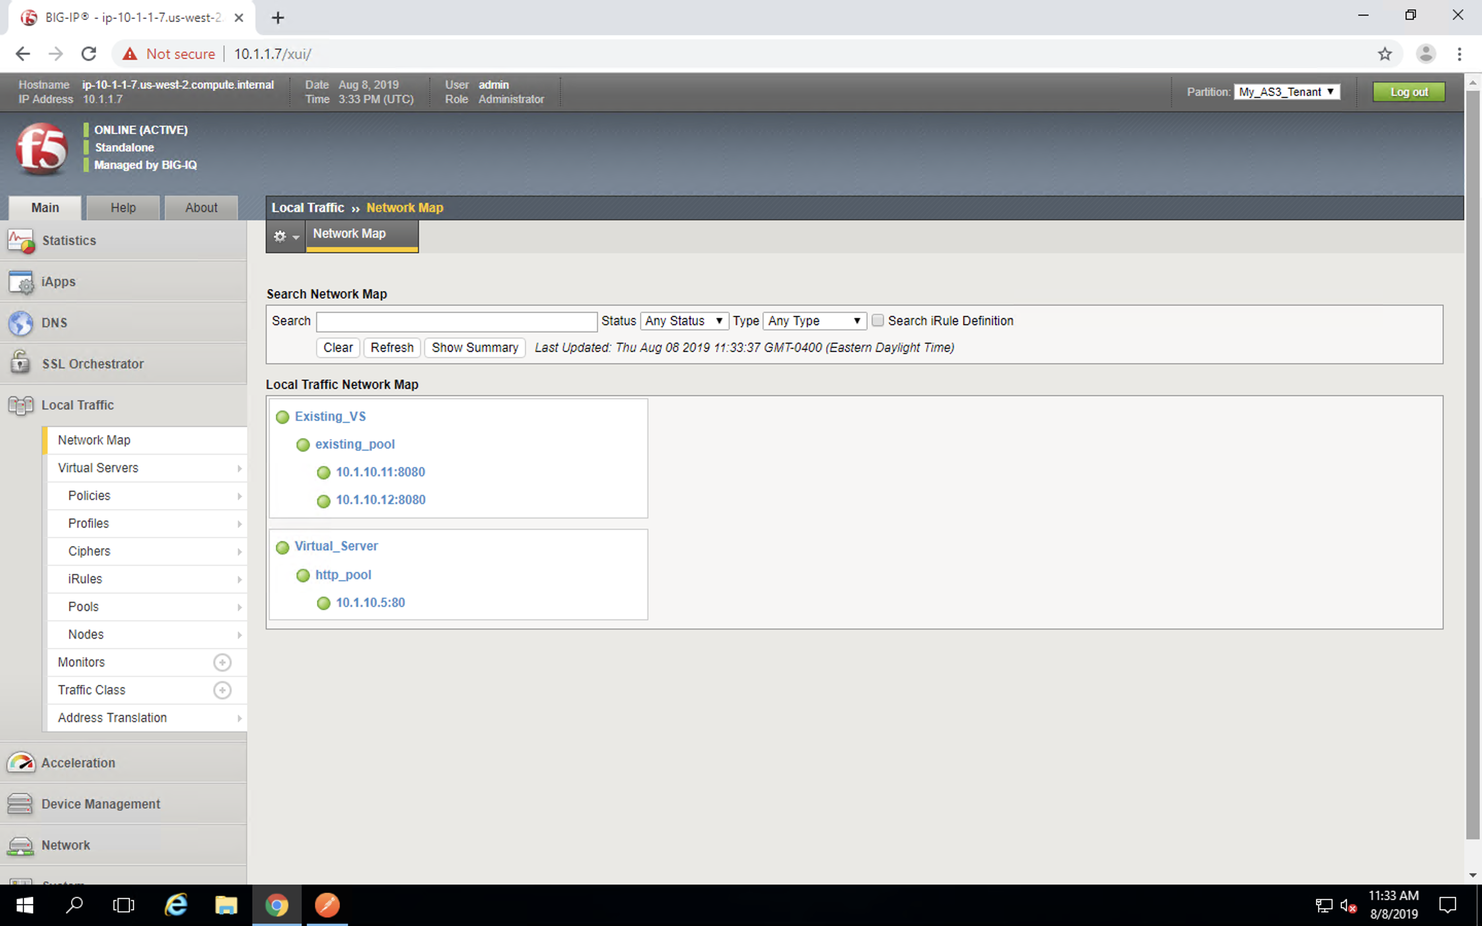
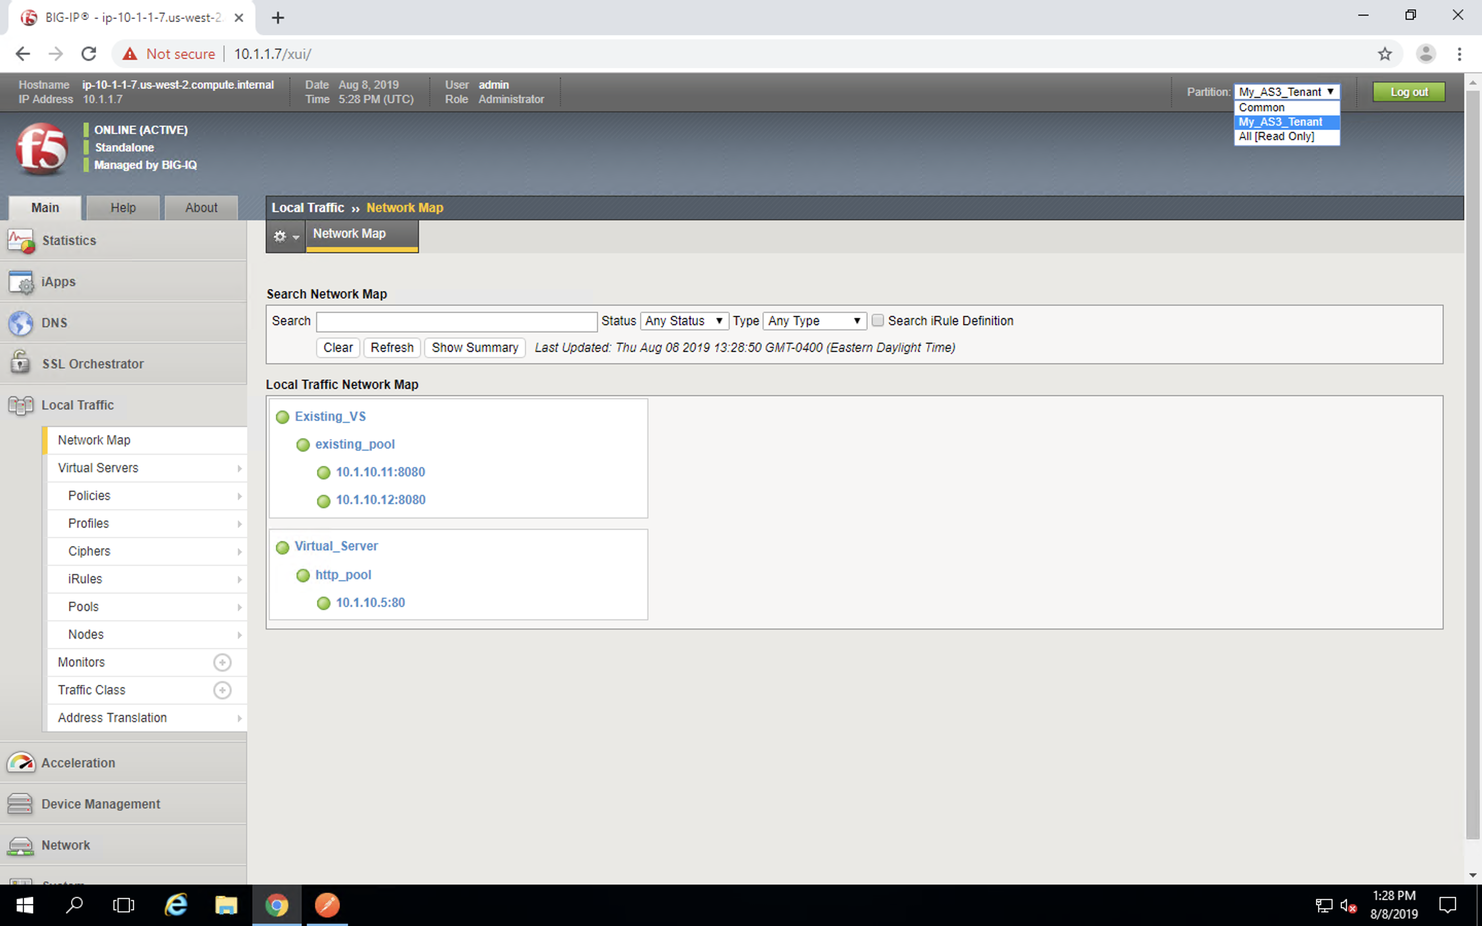
image fix

diff --git a/docs/_build/html/searchindex.js b/docs/_build/html/searchindex.js
@@ -1,1 +1,1 @@
-Search.setIndex({docnames:["class2/class2","class3/class3","class3/module/do","class4/class4","class4/module/lab1","class4/module/module","class4/module2/lab2","class4/module2/module2","class5/class5","class5/module/telemetry","index"],envversion:52,filenames:["class2/class2.rst","class3/class3.rst","class3/module/do.rst","class4/class4.rst","class4/module/lab1.rst","class4/module/module.rst","class4/module2/lab2.rst","class4/module2/module2.rst","class5/class5.rst","class5/module/telemetry.rst","index.rst"],objects:{},objnames:{},objtypes:{},terms:{"class":[2,4,6,9],"default":[2,4,6,9],"goto":[],"import":[],"new":[5,7,9],"true":[2,4],"var":[],"while":8,ASE:[],AWS:[0,8,10],And:[],DNS:[0,1,2,3,4,5,6,7,8,9,10],For:[6,8,9],IPs:2,One:[],That:[],The:[0,1,2,3,4,5,6,7,8,9,10],These:[],Use:2,Using:[3,10],_build:[],_static:[],_templat:[],abov:6,accept:[],access:[0,1,2,3,4,5,6,7,8,9,10],account:8,achiev:[],action:[4,6,9],activ:[],adc:[4,6],add:[2,5,7,9],added:[],address:[0,2,9],admin123:0,admin:[0,2,4,6,9],administr:[0,9],adminstr:[2,4],admonit:[],advanc:[0,1,2,3,4,5,6,7,8,9,10],afm:[],after:6,again:[],agil:[],agnost:3,all:[0,2,4,9],allowservic:2,along:9,alpha:[],alreadi:[2,4],alredi:9,also:9,amazon:[],amazoncloudwatch:[],amount:8,ani:9,anoth:3,ao_log_group:[],ao_log_stream:[],api:[0,1,2,3,4,5,6,7,8,9,10],apirefer:6,apm:[],app:[0,1,3,5,6,7,8,9,10],applianc:[],applic:[0,1,2,4,5,6,7,8,9,10],application_1:[],appropri:[],approv:0,appsvc:[4,6],as3:[0,4,10],asm:[],aspect:10,assign:[],assum:[1,3,8],assumpt:[1,3,8],async:2,attach:9,attent:[],auth:[2,4,6,9],authent:6,author:[2,4,6,9],autom:[0,1,2,3,4,5,6,7,8,9,10],avail:9,averag:8,avg:[],awesom:[],aws:8,aws_cloudwatch:9,back:[2,9],bad:[],ball:[],bar:[2,4,6,9],bare:[],basic:[2,4,6,9],bat:[],becaus:9,been:[0,9],befor:[],begin:9,being:9,below:[2,6,9],big:[0,1,3,5,8,10],bigip:4,bigiq_app_ten:6,bigiq_app_test:6,bigiq_public_api_ref:6,bigiqapp:6,bigiqv:6,bip:[],biq:[],blank:[],blob:[],block:[],blue:9,blueprint:[2,4,9],board:[],bodi:[2,4,6,9],bold:[],bookmark:9,border:[],both:6,bottom:[2,4,9],box:[4,6],bravo:[],browser:[0,1,4,6,8,9],bug:[0,1,2,3,4,5,6,7,8,9,10],build:[],busi:8,button:[2,4,6,9],call:[0,4,6],callout:[],can:[0,1,2,3,4,5,6,7,8,9,10],care:[],carefulli:[],caution:[],cell:[],cert:[],certif:[2,4,9],chang:[],charli:[],check:[2,4,6,9],choos:[],chrome:[0,2,4,6,9],ciphertext:9,class1:[],class2:[],class3:[],class4:[],class5:[],class7:[1,3,8],classbold:[],classital:[],classnam:[],clear:[4,6],click:[1,2,4,6,8,9],close:9,cloud:8,clouddoc:[1,2,3,6,8],cloudwatch:[8,10],code:[],collect:[5,7,8,9],com:[0,1,2,3,4,5,6,7,8,9,10],combin:9,command:[],common:[2,4,9],commun:[1,3,8],complet:[1,3,8],complianc:9,compon:[0,2,4,9],comput:[2,6],conf:[],config:[],configur:[1,3,5,6,8,10],connect:8,consol:9,consum:8,contain:[0,1,2,3,4,5,6,7,8,9,10],content:[0,1,2,3,4,5,6,7,8,9,10],control:[0,1,2,3,4,5,6,7,8,9,10],conveni:[],copi:9,could:8,cover:[],creat:[5,7,9],credenti:[0,2,4,9],crowbar:[],current:9,custom:[],custom_filtter_1:[],custom_metric_1:[],cut:[],cutter:[],dai:[8,9],danger:[],dash:[],dashboard:9,data:8,datacent:[],dcd:0,declar:[0,5,7,9,10],delet:[4,6],deliveri:[0,1,2,3,4,5,6,7,8,9,10],demo:[1,2,3,4,8,9],deploi:[5,6,8,10],deploy:[2,4,9],descript:[],detail:[2,4,9],dev:1,devic:2,devop:[0,1,2,3,4,5,6,7,8,9,10],differ:[],disabl:6,dismiss:9,dist:[],dns:[],doc:[],document:8,don:2,done:[],dot:[2,4,6,9],down:[],download:9,dropdown:[2,4,6,8,9],drwxr:[],durat:9,edit:[0,1,2,3,4,5,6,7,8,9,10],electr:[],element:[],email:1,emphasi:[],empti:[],enabl:[],end:[2,4,6,9],enforc:[0,1,2,3,4,5,6,7,8,9,10],enhanc:[0,1,2,3,4,5,6,7,8,9,10],enter:[2,4,6,8,9],entri:9,environ:10,equival:[],error:[],eval:[],examin:[],exampl:[],exclus:0,existing_pool:9,existing_v:9,exit:[2,4,9],expand:[2,4,6,9],expect:[1,3,8],expir:6,expos:9,extend:8,extens:[2,10],extern:[0,2],external_default_gatewai:2,extrem:[],f5devcentr:[0,1,2,3,4,5,6,7,8,9,10],f5i:[],f5network:6,facilit:[1,3,8],fals:2,familiar:10,feder:[1,8,9],few:0,figur:[],file:[2,4,9],filter:[],find:9,firefox:[],firewal:[0,1,2,3,4,5,6,7,8,9,10],first:[],flow:[],focu:[],folder:[],follow:[0,1,2,3,4,6,8,9],font:[],fontawesom:[],fonticon:[],format:[],found:9,four:[],from:[0,1,2,3,4,5,6,7,8,9,10],full:[0,1,2,3,4,5,6,7,8,9,10],futur:9,gear:[],gener:[1,2,4,6,8,10],get:[1,3,4,7,8,9,10],github:[0,1,2,3,4,5,6,7,8,9,10],give:9,global:[0,1,2,3,4,5,6,7,8,9,10],gmsmr:2,goal:[1,3,8],goodbaklava123:[0,2],googl:0,govern:9,grai:[],grap:[],graph:[],great:[],green:[2,4,9],grei:[2,4,9],grid:[],group:[2,8,10],gtm:[],gui:[],guid:[1,3,8],guidelin:[],hammer:[],handi:1,hardwar:[],has:[2,4,6],have:[0,2,4,9],header:[],heavi:[],help:10,here:[0,1,2,3,4,5,6,7,8,9,10],highlight:9,hint:[],home:[],host:8,hostnam:[2,6],hour:[1,3,8],how:[1,3,5,7,8],howev:[],html:[1,2,3,6,8],http:[0,1,2,3,4,5,6,7,8,9,10],http_basic:[4,6],http_default:[4,6],http_index:[4,6],http_pool:4,http_profil:[],hyperlink:[],hypervisor:[],iam:[8,10],iapp:[],icon:[],icontrol:[0,1,2,3,4,5,6,7,8,9,10],ident:9,ieldt:2,ignor:[],imag:[],image001:[],inc:[0,1,2,3,4,5,6,7,8,9,10],includ:0,index:6,info:[2,9],inform:[6,8],insert:6,insight:9,inspect:9,instal:[0,2],instruct:[],instructor:[],integr:[1,3,8],intellig:[0,1,2,3,4,5,6,7,8,9,10],interact:0,interfac:2,intern:[0,2,6],interv:[6,9],intro:[],ipi:[],isn:2,issu:[0,1,2,3,4,5,6,7,8,9,10],ital:[],item:[],its:9,iwf:[],iworkflow:[0,1,2,3,4,5,6,7,8,9,10],json:[2,4,6,9],jsp:[],jump:[],jumphost:0,jumppost:0,jun:[],justif:8,keep:1,kei:[0,1,2,8,9],knife:[],knive:[],know:[1,3,8],kqokz:2,lab1:[1,3,8],lab2:[],lab:[1,2,3,4,6,8,9],label:6,lamp:[],languag:[],latest:2,learn:[5,7],left:[2,4,9],let:9,leverag:[0,1,2,3,4,5,6,7,8,9,10],lic:[],licens:[1,2],licensetyp:2,lick:[],lift:[],light:[],like:[],line:2,link:[],linux:0,list:[2,9],local:[0,1,2,3,4,5,6,7,8,9,10],locat:[],log:[2,7,8,10],loggroup:9,login:[5,6,9],logstream:9,look:[],ltm:2,lwbzexewl9at:[2,4],machin:0,made:[0,1,2,3,4,5,6,7,8,9,10],mai:[],main:0,make:0,makefil:[],manag:[0,1,2,3,4,5,6,7,8,9,10],mani:8,manual:2,map:9,mark:[],markdown:[],markup:[],mart:[],master:[],math:[],member:[4,6],menu:[2,4,6,9],method:[2,4,6,8,9],metric:[],mgmt:[2,4,6,9],minut:6,modifi:[],modul:[5,7,9],module1:[1,3,8],module2:[],monitor:[4,6],monitortyp:6,more:6,mtu:2,muczt:2,must:6,my_as3_app:4,my_as3_ten:4,my_consum:9,my_listen:9,my_log_group:9,my_system:9,my_us:9,mydn:2,mylicens:2,myntp:2,myprovis:2,name:[2,4,6,9],nameserv:2,navig:[1,2,4,8,9],need:[],nest:[],net:6,network:[0,1,2,3,4,5,6,7,8,9,10],new_partit:[4,6],newli:[2,4,6,9],next:[1,2,4,6,9],noarch:[],nomin:2,none:2,note:9,novfibg:2,now:[2,4,6,8],ntp:2,number:[],off:[2,4,9],onboard:[0,10],onc:[0,9],one:[2,3,4,9],onli:2,onto:[],open:[0,1,2,3,4,5,6,7,8,9,10],option:[],orchestr:[0,1,2,3,4,5,6,7,8,9,10],order:[],org:2,origin:[],other:[],our:[4,6],out:0,outsid:0,overwrit:2,packag:9,page:[2,4,9],pane:[],partit:[4,6,9],passphras:9,password:[2,4,6,9],past:[2,4,6,9],patch:2,perform:[0,6],permiss:9,persist:4,phase:[],phillip:[],photo:[],pipelin:[0,1,2,3,4,5,6,7,8,9,10],place:[],plane:[],platform:8,pleas:[],png:[],point:0,polici:[0,1,2,3,4,5,6,7,8,9,10],pool:[0,2,4,6,9],pool_with_vip:6,pop:[2,4,6,9],port:9,post:[2,4,6,9],postman:[0,1,3,5,7,8,10],power:[],pre:[],preconfigur:9,prefer:0,prerequisit:[1,8],present:[2,4,9],previou:[4,6],print:[],produc:9,product:[2,6],profilehttp:4,programm:[],programmat:9,provid:10,provis:2,purpos:10,push:[],putti:[],queri:9,quickli:10,qweasdzxc123:[],r_auth_login:6,rackmount:[],radial:[2,4,6,9],rail:[],rather:[],raw:[2,4,6,9],rdp:[2,4,9],receiv:6,red:[],refer:[],refresh:6,refreshtoken:6,reg:[],region:9,registeremail:[],regkei:2,relev:8,reload:9,remark:6,remov:[],replac:[],repo:[],repositori:[0,1,2,3,4,5,6,7,8,9,10],request:[0,1,2,3,5,7,8,9,10],requir:0,resourc:[],respons:6,rest:[0,1,2,3,4,5,6,7,8,9,10],restructuredtext:[],result:9,review:9,revok:2,right:9,root:[],rout:2,row:[],rpm:[2,9],rst:[],run:9,safeti:[],sale:[],same:6,sampl:[],save:[2,4,6,9],schemavers:[2,4,6],scope:[],screen:[2,4,9],screenshot:[],screwdriv:[],scroll:[],search:[2,4,8,9],second:[],secret:[8,9],section:[1,3,4,6,8,9],secur:[0,1,2,3,4,5,6,7,8,9,10],see:[2,9],select:[2,4,6,8,9],self:2,selfip:2,send:[1,5,7],server:[0,2,9],serveraddress:[4,6],servic:[4,6,8,9,10],service_gener:[4,6],servicenow:[],serviceport:[4,6],session:9,set:[1,2,4,9],setup:[0,8,10],share:[2,4,6,9],sharp:[],shell:[],should:[2,4,6],show:[],shown:[],sign:[2,4,9],simpl:[],simplifi:3,sinc:[],site:[],skip:[2,4,9],soap:[0,1,2,3,4,5,6,7,8,9,10],softwar:[],some:10,sourc:[0,1,2,3,4,5,6,7,8,9,10],span:[],sphinx:[],spin:[],ssl:[2,4,9],stabl:[],staff:[],stand:[],start:[1,3,4,7,8,10],statu:2,step:[4,6],sticki:9,straight:[2,4,9],stream:[0,9,10],submit:8,substitut:[],success:[],sum:[],support:[],sure:[],surfac:[],syntax:[],sys:[],system:[0,2,4,9],systempol:9,tab:[2,4,6,9],tabl:[],tag:[2,9],take:[2,4,8,9],target:6,task:[],teach:[],technolog:8,telemetri:[0,9,10],telemetry_consum:9,telemetry_listen:9,telemetry_system:9,templat:[4,6],tenant:[2,4,6],test:[0,6],test_log_group:9,test_log_stream:9,test_us:[],text:[2,4,6,9],than:[],them:9,theme:[],themselv:[],thi:[0,1,2,3,4,5,6,7,8,9,10],thing:[0,2],three:[2,4,6,9],through:0,ticket:8,tile:[1,2,4,8,9],time:[1,3,4,6,8,9],timeout:6,timezon:2,tip:[],tmo:[],tmsh:[],todo:[],todo_emit_warn:[],todo_include_todo:[],todolist:[],togeth:[],toggl:[2,4,9],token:6,tool:1,toolchain:[2,4,9,10],top:9,topic:[],topolog:10,total:[],touch:[],trace:4,traffic:[0,1,2,3,4,5,6,7,8,10],trafficgroup:2,train:[1,3,8],tree:[],turn:[],tutori:[1,3,8],two:[],type:[2,4,6,9],udf:[5,8,10],under:[2,4,6,9],unord:[],until:[2,4,6,9],upgrad:3,upload:9,uri:2,url:[2,4,6,9],use:[1,3,4,5,6,7,8],used:[],user:[8,10],usernam:[2,4,6,9],uses:8,using:[0,1,2,3,4,5,6,7,8,9,10],utc:2,util:2,v12:[],v13:0,v14:0,v16:[],valu:[],verif:[2,4,9],verifi:4,verison:[],version:3,via:[],view:[8,10],virtual:[0,1,2,3,4,5,6,7,8,9,10],virtual_serv:4,virtualaddress:[4,6],virtualport:[4,6],vlan:[0,2],waf:[1,3,8],wai:0,wait:[2,4,9],want:8,warn:[],web:[],webserv:[],websit:[],welcom:10,west:[2,6],when:1,whenev:6,which:[0,2,4,6,9],win2016:[2,4,9],window:[0,2,4,6,9],within:[0,1,2,3,4,5,6,7,8,9,10],work:0,workd:[],would:[],www:[],xubuntu:[],year:[],yes:[],ylwbzexewl9at:0,you:[0,1,2,3,4,5,6,7,8,9,10],your:[0,1,2,8,9],zero:[]},titles:["1. Environments &amp; Lab Topology","2. Declarative Onboarding","2.1. Declarative Onboarding \u2013 Getting Started","3. Application Services 3 Extension (AS3)","3.1.1. Deploy UDF","3.1. AS3 \u2013 Getting Started","3.2.1. Using AS3 with BIG-IQ \u2013 Getting Started","3.2. Using AS3 with Big-IQ","4. Telemetry Streaming","4.1. Setup AWS CloudWatch IAM User","F5 Agility Labs - Index"],titleterms:{"class":[],"import":[],"new":[4,6],AWS:9,One:[],Using:[6,7],With:[],accept:[],add:[4,6],admonit:[],agil:10,also:[],app:[2,4],applianc:[],applic:3,as3:[3,5,6,7],attent:[],autom:[],awesom:[],big:[2,4,6,7,9],browser:[],caution:[],chang:2,clear:[],cloudwatch:9,code:[],collect:[2,4,6],column:[],common:[],compon:[],configur:[2,4,9],connect:[],cord:[],creat:[2,4,6],custom:[],danger:[],datacent:[],declar:[1,2,4,6],deploi:[2,4,9],download:[],edit:[],emphasi:[],enabl:[],environ:0,error:[],exampl:[],extens:3,extern:[],file:[],font:[],format:[],four:[],gener:9,get:[2,5,6],giant:[],grid:[],group:9,hint:[],hyperlink:[],hypervisor:[],iam:9,icon:[],icontrol:[],imag:[],index:10,instal:[],instanc:[],intern:[],lab:[0,10],let:[],list:[],log:[6,9],login:[2,4],map:[],markdown:[],markup:[],metric:[],modul:[],nest:[],network:[],note:[],onboard:[1,2],open:[],option:[],orchestr:[],order:[],partit:[],phase:[],postman:[2,4,6,9],power:[],pre:[],prerequisit:[],rack:[],rdp:[],request:[4,6],requir:[],rpm:[],sampl:[],send:[2,4,6],servic:3,setup:9,show:[],simpl:[],start:[2,5,6,9],stream:8,stub:[],substitut:[],support:[],tabl:[],task:[],telemetri:8,text:[],three:[],tip:[],tmsh:[],todo:[],togeth:[],topolog:0,traffic:9,turn:[],two:[],udf:[2,4,9],unord:[],unpack:[],upload:[],user:9,verifi:2,view:9,virtual:[],warn:[],web:[],welcom:[],without:[],your:[]}})
+Search.setIndex({docnames:["class2/class2","class3/class3","class3/module/do","class4/class4","class4/module/lab1","class4/module/module","class4/module2/lab2","class4/module2/module2","class5/class5","class5/module/telemetry","index"],envversion:52,filenames:["class2/class2.rst","class3/class3.rst","class3/module/do.rst","class4/class4.rst","class4/module/lab1.rst","class4/module/module.rst","class4/module2/lab2.rst","class4/module2/module2.rst","class5/class5.rst","class5/module/telemetry.rst","index.rst"],objects:{},objnames:{},objtypes:{},terms:{"class":[2,4,6,9],"default":[2,4,6,9],"goto":[],"import":[],"new":[5,7,9],"true":[2,4],"var":[],"while":8,ASE:[],AWS:[0,8,10],And:[],DNS:[0,1,2,3,4,5,6,7,8,9,10],For:[6,8,9],IPs:2,One:[],That:[],The:[0,1,2,3,4,5,6,7,8,9,10],These:[],Use:2,Using:[3,10],_build:[],_static:[],_templat:[],abov:6,accept:[],access:[0,1,2,3,4,5,6,7,8,9,10],account:8,achiev:[],action:[4,6,9],activ:[],adc:[4,6],add:[2,5,7,9],added:[],address:[0,2,9],admin123:0,admin:[0,2,4,6,9],administr:[0,9],adminstr:[2,4],admonit:[],advanc:[0,1,2,3,4,5,6,7,8,9,10],afm:[],after:6,again:[],agil:[],agnost:3,all:[0,2,4,9],allowservic:2,along:9,alpha:[],alreadi:[2,4],alredi:9,also:[4,6,9],amazon:[],amazoncloudwatch:[],amount:8,ani:9,anoth:3,ao_log_group:[],ao_log_stream:[],api:[0,1,2,3,4,5,6,7,8,9,10],apirefer:6,apm:[],app:[0,1,3,5,6,7,8,9,10],applianc:[],applic:[0,1,2,4,5,6,7,8,9,10],application_1:[],appropri:[],approv:0,appsvc:[4,6],as3:[0,4,10],asm:[],aspect:10,assign:[],assum:[1,3,8],assumpt:[1,3,8],async:2,attach:9,attent:[],auth:[2,4,6,9],authent:6,author:[2,4,6,9],autom:[0,1,2,3,4,5,6,7,8,9,10],avail:9,averag:8,avg:[],awesom:[],aws:8,aws_cloudwatch:9,back:[2,9],bad:[],ball:[],bar:[2,4,6,9],bare:[],basic:[2,4,6,9],bat:[],becaus:9,been:[0,9],befor:[],begin:9,being:9,below:[2,6,9],big:[0,1,3,5,8,10],bigip:4,bigiq_app_ten:6,bigiq_app_test:6,bigiq_public_api_ref:6,bigiqapp:6,bigiqv:6,bip:[],biq:[],blank:[],blob:[],block:[],blue:9,blueprint:[2,4,9],board:[],bodi:[2,4,6,9],bold:[],bookmark:9,border:[],both:6,bottom:[2,4,9],box:[4,6],bravo:[],browser:[0,1,4,6,8,9],bug:[0,1,2,3,4,5,6,7,8,9,10],build:[],busi:8,button:[2,4,6,9],call:[0,4,6],callout:[],can:[0,1,2,3,4,5,6,7,8,9,10],care:[],carefulli:[],caution:[],cell:[],cert:[],certif:[2,4,9],chang:[],charli:[],check:[2,4,6,9],choos:[],chrome:[0,2,4,6,9],ciphertext:9,class1:[],class2:[],class3:[],class4:[],class5:[],class7:[1,3,8],classbold:[],classital:[],classnam:[],clear:[4,6],click:[1,2,4,6,8,9],close:9,cloud:8,clouddoc:[1,2,3,6,8],cloudwatch:[8,10],code:[],collect:[5,7,8,9],com:[0,1,2,3,4,5,6,7,8,9,10],combin:9,command:[],common:[2,4,9],commun:[1,3,8],complet:[1,3,8],complianc:9,compon:[0,2,4,9],comput:[2,6],conf:[],config:[],configur:[1,3,5,6,8,10],connect:8,consol:9,consum:8,contain:[0,1,2,3,4,5,6,7,8,9,10],content:[0,1,2,3,4,5,6,7,8,9,10],control:[0,1,2,3,4,5,6,7,8,9,10],conveni:[],copi:9,correct:[4,6],could:8,cover:[],creat:[5,7,9],credenti:[0,2,4,9],crowbar:[],current:9,custom:[],custom_filtter_1:[],custom_metric_1:[],cut:[],cutter:[],dai:[8,9],danger:[],dash:[],dashboard:9,data:8,datacent:[],dcd:0,declar:[0,5,7,9,10],delet:[4,6],deliveri:[0,1,2,3,4,5,6,7,8,9,10],demo:[1,2,3,4,8,9],deploi:[5,6,8,10],deploy:[2,4,9],descript:[],detail:[2,4,9],dev:1,devic:2,devop:[0,1,2,3,4,5,6,7,8,9,10],differ:[],disabl:6,dismiss:9,dist:[],dns:[],doc:[],document:8,don:2,done:[],dot:[2,4,6,9],down:[],download:9,dropdown:[2,4,6,8,9],drwxr:[],durat:9,edit:[0,1,2,3,4,5,6,7,8,9,10],electr:[],element:[],email:1,emphasi:[],empti:[],enabl:[],end:[2,4,6,9],enforc:[0,1,2,3,4,5,6,7,8,9,10],enhanc:[0,1,2,3,4,5,6,7,8,9,10],enter:[2,4,6,8,9],entri:9,environ:10,equival:[],error:[],eval:[],examin:[],exampl:[],exclus:0,existing_pool:9,existing_v:9,exit:[2,4,9],expand:[2,4,6,9],expect:[1,3,8],expir:6,expos:9,extend:8,extens:[2,10],extern:[0,2],external_default_gatewai:2,extrem:[],f5devcentr:[0,1,2,3,4,5,6,7,8,9,10],f5i:[],f5network:6,facilit:[1,3,8],fals:2,familiar:10,feder:[1,8,9],few:0,figur:[],file:[2,4,9],filter:[],find:9,firefox:[],firewal:[0,1,2,3,4,5,6,7,8,9,10],first:[],flow:[],focu:[],folder:[],follow:[0,1,2,3,4,6,8,9],font:[],fontawesom:[],fonticon:[],format:[],found:9,four:[],from:[0,1,2,3,4,5,6,7,8,9,10],full:[0,1,2,3,4,5,6,7,8,9,10],futur:9,gear:[],gener:[1,2,4,6,8,10],get:[1,3,4,7,8,9,10],github:[0,1,2,3,4,5,6,7,8,9,10],give:9,global:[0,1,2,3,4,5,6,7,8,9,10],gmsmr:2,goal:[1,3,8],goodbaklava123:[0,2],googl:0,govern:9,grai:[],grap:[],graph:[],great:[],green:[2,4,9],grei:[2,4,9],grid:[],group:[2,8,10],gtm:[],gui:[],guid:[1,3,8],guidelin:[],hammer:[],handi:1,hardwar:[],has:[2,4,6],have:[0,2,4,9],header:[],heavi:[],help:10,here:[0,1,2,3,4,5,6,7,8,9,10],highlight:9,hint:[],home:[],host:8,hostnam:[2,6],hour:[1,3,8],how:[1,3,5,7,8],howev:[],html:[1,2,3,6,8],http:[0,1,2,3,4,5,6,7,8,9,10],http_basic:[4,6],http_default:[4,6],http_index:[4,6],http_pool:4,http_profil:[],hyperlink:[],hypervisor:[],iam:[8,10],iapp:[],icon:[],icontrol:[0,1,2,3,4,5,6,7,8,9,10],ident:9,ieldt:2,ignor:[],imag:[],image001:[],inc:[0,1,2,3,4,5,6,7,8,9,10],includ:0,index:6,info:[2,9],inform:[6,8],insert:6,insight:9,inspect:9,instal:[0,2],instruct:[],instructor:[],integr:[1,3,8],intellig:[0,1,2,3,4,5,6,7,8,9,10],interact:0,interfac:2,intern:[0,2,6],interv:[6,9],intro:[],ipi:[],isn:2,issu:[0,1,2,3,4,5,6,7,8,9,10],ital:[],item:[],its:9,iwf:[],iworkflow:[0,1,2,3,4,5,6,7,8,9,10],json:[2,4,6,9],jsp:[],jump:[],jumphost:0,jumppost:0,jun:[],justif:8,keep:1,kei:[0,1,2,8,9],knife:[],knive:[],know:[1,3,8],kqokz:2,lab1:[1,3,8],lab2:[],lab:[1,2,3,4,6,8,9],label:6,lamp:[],languag:[],latest:2,learn:[5,7],left:[2,4,9],let:9,leverag:[0,1,2,3,4,5,6,7,8,9,10],lic:[],licens:[1,2],licensetyp:2,lick:[],lift:[],light:[],like:[],line:2,link:[],linux:0,list:[2,9],local:[0,1,2,3,4,5,6,7,8,9,10],locat:[],log:[2,7,8,10],loggroup:9,login:[5,6,9],logstream:9,look:[],ltm:2,lwbzexewl9at:[2,4],machin:0,made:[0,1,2,3,4,5,6,7,8,9,10],mai:[],main:0,make:[0,4,6],makefil:[],manag:[0,1,2,3,4,5,6,7,8,9,10],mani:8,manual:2,map:9,mark:[],markdown:[],markup:[],mart:[],master:[],math:[],member:[4,6],menu:[2,4,6,9],method:[2,4,6,8,9],metric:[],mgmt:[2,4,6,9],minut:6,modifi:[],modul:[5,7,9],module1:[1,3,8],module2:[],monitor:[4,6],monitortyp:6,more:6,mtu:2,muczt:2,must:6,my_as3_app:4,my_as3_ten:4,my_consum:9,my_listen:9,my_log_group:9,my_system:9,my_us:9,mydn:2,mylicens:2,myntp:2,myprovis:2,name:[2,4,6,9],nameserv:2,navig:[1,2,4,8,9],need:[],nest:[],net:6,network:[0,1,2,3,4,5,6,7,8,9,10],new_partit:[4,6],newli:[2,4,6,9],next:[1,2,4,6,9],noarch:[],nomin:2,none:2,note:9,novfibg:2,now:[2,4,6,8],ntp:2,number:[],off:[2,4,9],onboard:[0,10],onc:[0,9],one:[2,3,4,9],onli:2,onto:[],open:[0,1,2,3,4,5,6,7,8,9,10],option:[],orchestr:[0,1,2,3,4,5,6,7,8,9,10],order:[],org:2,origin:[],other:[],our:[4,6],out:0,outsid:0,overwrit:2,packag:9,page:[2,4,9],pane:[],partit:[4,6,9],passphras:9,password:[2,4,6,9],past:[2,4,6,9],patch:2,perform:[0,6],permiss:9,persist:4,phase:[],phillip:[],photo:[],pipelin:[0,1,2,3,4,5,6,7,8,9,10],place:[],plane:[],platform:8,pleas:[],png:[],point:0,polici:[0,1,2,3,4,5,6,7,8,9,10],pool:[0,2,4,6,9],pool_with_vip:6,pop:[2,4,6,9],port:9,post:[2,4,6,9],postman:[0,1,3,5,7,8,10],power:[],pre:[],preconfigur:9,prefer:0,prerequisit:[1,8],present:[2,4,9],previou:[4,6],print:[],produc:9,product:[2,6],profilehttp:4,programm:[],programmat:9,provid:10,provis:2,purpos:10,push:[],putti:[],queri:9,quickli:10,qweasdzxc123:[],r_auth_login:6,rackmount:[],radial:[2,4,6,9],rail:[],rather:[],raw:[2,4,6,9],rdp:[2,4,9],receiv:6,red:[],refer:[],refresh:6,refreshtoken:6,reg:[],region:9,registeremail:[],regkei:2,relev:8,reload:9,remark:6,remov:[],replac:[],repo:[],repositori:[0,1,2,3,4,5,6,7,8,9,10],request:[0,1,2,3,5,7,8,9,10],requir:0,resourc:[],respons:6,rest:[0,1,2,3,4,5,6,7,8,9,10],restructuredtext:[],result:9,review:9,revok:2,right:9,root:[],rout:2,row:[],rpm:[2,9],rst:[],run:9,safeti:[],sale:[],same:6,sampl:[],save:[2,4,6,9],schemavers:[2,4,6],scope:[],screen:[2,4,9],screenshot:[],screwdriv:[],scroll:[],search:[2,4,8,9],second:[],secret:[8,9],section:[1,3,4,6,8,9],secur:[0,1,2,3,4,5,6,7,8,9,10],see:[2,9],select:[2,4,6,8,9],self:2,selfip:2,send:[1,5,7],server:[0,2,9],serveraddress:[4,6],servic:[4,6,8,9,10],service_gener:[4,6],servicenow:[],serviceport:[4,6],session:9,set:[1,2,4,9],setup:[0,8,10],share:[2,4,6,9],sharp:[],shell:[],should:[2,4,6],show:[],shown:[],sign:[2,4,9],simpl:[],simplifi:3,sinc:[],site:[],skip:[2,4,9],soap:[0,1,2,3,4,5,6,7,8,9,10],softwar:[],some:10,sourc:[0,1,2,3,4,5,6,7,8,9,10],span:[],sphinx:[],spin:[],ssl:[2,4,9],stabl:[],staff:[],stand:[],start:[1,3,4,7,8,10],statu:2,step:[4,6],sticki:9,straight:[2,4,9],stream:[0,9,10],submit:8,substitut:[],success:[],sum:[],support:[],sure:[4,6],surfac:[],syntax:[],sys:[],system:[0,2,4,9],systempol:9,tab:[2,4,6,9],tabl:[],tag:[2,9],take:[2,4,8,9],target:6,task:[],teach:[],technolog:8,telemetri:[0,9,10],telemetry_consum:9,telemetry_listen:9,telemetry_system:9,templat:[4,6],tenant:[2,4,6],test:[0,6],test_log_group:9,test_log_stream:9,test_us:[],text:[2,4,6,9],than:[],them:9,theme:[],themselv:[],thi:[0,1,2,3,4,5,6,7,8,9,10],thing:[0,2],three:[2,4,6,9],through:0,ticket:8,tile:[1,2,4,8,9],time:[1,3,4,6,8,9],timeout:6,timezon:2,tip:[],tmo:[],tmsh:[],todo:[],todo_emit_warn:[],todo_include_todo:[],todolist:[],togeth:[],toggl:[2,4,9],token:6,tool:1,toolchain:[2,4,9,10],top:9,topic:[],topolog:10,total:[],touch:[],trace:4,traffic:[0,1,2,3,4,5,6,7,8,10],trafficgroup:2,train:[1,3,8],tree:[],turn:[],tutori:[1,3,8],two:[],type:[2,4,6,9],udf:[5,8,10],under:[2,4,6,9],unord:[],until:[2,4,6,9],upgrad:3,upload:9,uri:2,url:[2,4,6,9],use:[1,3,4,5,6,7,8],used:[],user:[8,10],usernam:[2,4,6,9],uses:8,using:[0,1,2,3,4,5,6,7,8,9,10],utc:2,util:2,v12:[],v13:0,v14:0,v16:[],valu:[],verif:[2,4,9],verifi:4,verison:[],version:3,via:[],view:[8,10],virtual:[0,1,2,3,4,5,6,7,8,9,10],virtual_serv:4,virtualaddress:[4,6],virtualport:[4,6],vlan:[0,2],waf:[1,3,8],wai:0,wait:[2,4,9],want:8,warn:[],web:[],webserv:[],websit:[],welcom:10,west:[2,6],when:1,whenev:6,which:[0,2,4,6,9],win2016:[2,4,9],window:[0,2,4,6,9],within:[0,1,2,3,4,5,6,7,8,9,10],work:0,workd:[],would:[],www:[],xubuntu:[],year:[],yes:[],ylwbzexewl9at:0,you:[0,1,2,3,4,5,6,7,8,9,10],your:[0,1,2,8,9],zero:[]},titles:["1. Environments &amp; Lab Topology","2. Declarative Onboarding","2.1. Declarative Onboarding \u2013 Getting Started","3. Application Services 3 Extension (AS3)","3.1.1. Deploy UDF","3.1. AS3 \u2013 Getting Started","3.2.1. Using AS3 with BIG-IQ \u2013 Getting Started","3.2. Using AS3 with Big-IQ","4. Telemetry Streaming","4.1. Setup AWS CloudWatch IAM User","F5 Agility Labs - Index"],titleterms:{"class":[],"import":[],"new":[4,6],AWS:9,One:[],Using:[6,7],With:[],accept:[],add:[4,6],admonit:[],agil:10,also:[],app:[2,4],applianc:[],applic:3,as3:[3,5,6,7],attent:[],autom:[],awesom:[],big:[2,4,6,7,9],browser:[],caution:[],chang:2,clear:[],cloudwatch:9,code:[],collect:[2,4,6],column:[],common:[],compon:[],configur:[2,4,9],connect:[],cord:[],creat:[2,4,6],custom:[],danger:[],datacent:[],declar:[1,2,4,6],deploi:[2,4,9],download:[],edit:[],emphasi:[],enabl:[],environ:0,error:[],exampl:[],extens:3,extern:[],file:[],font:[],format:[],four:[],gener:9,get:[2,5,6],giant:[],grid:[],group:9,hint:[],hyperlink:[],hypervisor:[],iam:9,icon:[],icontrol:[],imag:[],index:10,instal:[],instanc:[],intern:[],lab:[0,10],let:[],list:[],log:[6,9],login:[2,4],map:[],markdown:[],markup:[],metric:[],modul:[],nest:[],network:[],note:[],onboard:[1,2],open:[],option:[],orchestr:[],order:[],partit:[],phase:[],postman:[2,4,6,9],power:[],pre:[],prerequisit:[],rack:[],rdp:[],request:[4,6],requir:[],rpm:[],sampl:[],send:[2,4,6],servic:3,setup:9,show:[],simpl:[],start:[2,5,6,9],stream:8,stub:[],substitut:[],support:[],tabl:[],task:[],telemetri:8,text:[],three:[],tip:[],tmsh:[],todo:[],togeth:[],topolog:0,traffic:9,turn:[],two:[],udf:[2,4,9],unord:[],unpack:[],upload:[],user:9,verifi:2,view:9,virtual:[],warn:[],web:[],welcom:[],without:[],your:[]}})

diff --git a/docs/_build/html/class4/module2/lab2.html b/docs/_build/html/class4/module2/lab2.html
@@ -266,7 +266,7 @@ For more information <a class="reference external" href="https://clouddocs.f5net
 </ol>
 <img alt="../../_images/AS3_BIGIQSuccess.png" src="../../_images/AS3_BIGIQSuccess.png" />
 <ol class="arabic simple" start="12">
-<li>Open Chrome and check now BIG-IP has application.</li>
+<li>Open Chrome and check now BIG-IP has application. Also make sure you are in the correct partition.</li>
 </ol>
 <img alt="../../_images/bigiqapp.png" src="../../_images/bigiqapp.png" />
 </div>

diff --git a/docs/_build/html/class4/module/lab1.html b/docs/_build/html/class4/module/lab1.html
@@ -275,7 +275,7 @@
 </ol>
 <img alt="../../_images/AS3_Success.png" src="../../_images/AS3_Success.png" />
 <ol class="arabic simple" start="12">
-<li>Open Chrome and check now BIG-IP has application.</li>
+<li>Open Chrome and check now BIG-IP has application. Also make sure you are in the correct partition.</li>
 </ol>
 <img alt="../../_images/app.png" src="../../_images/app.png" />
 </div>

diff --git a/docs/class4/module2/lab2.rst b/docs/class4/module2/lab2.rst
@@ -151,7 +151,7 @@ Create Postman Collection and Send Declaration
 
 .. image:: /_static/AS3_BIGIQSuccess.png
 
-12. Open Chrome and check now BIG-IP has application.
+12. Open Chrome and check now BIG-IP has application. Also make sure you are in the correct partition.
 
 .. image:: /_static/bigiqapp.png
 

diff --git a/docs/class4/module/lab1.rst b/docs/class4/module/lab1.rst
@@ -171,7 +171,7 @@ Create Postman Collection and Send Declaration
 
 .. image:: /_static/AS3_Success.png
 
-12. Open Chrome and check now BIG-IP has application.
+12. Open Chrome and check now BIG-IP has application. Also make sure you are in the correct partition.
 
 .. image:: /_static/app.png
 
